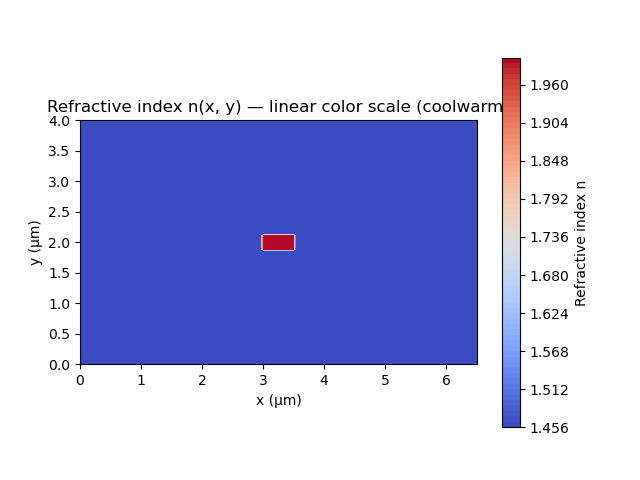
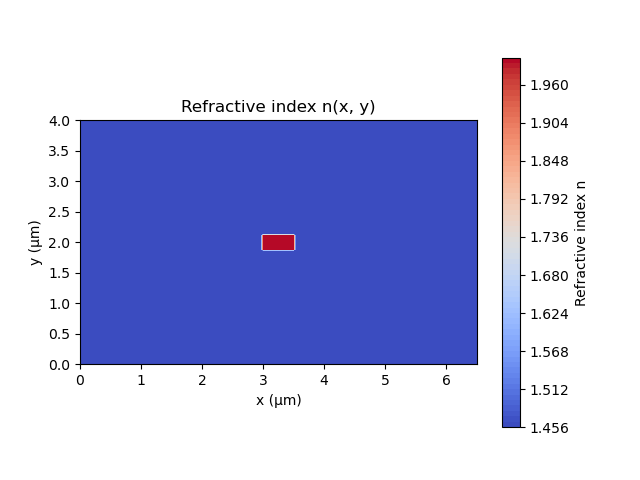
minor updates

Changed region(s): [[0.0625, 0.1875, 0.7812, 0.25]]

diff --git a/examples/Example1 - SiN rect wg modes.py b/examples/Example1 - SiN rect wg modes.py
@@ -37,34 +37,32 @@ core = Slice(SiO(2.0 - 0.25/2) + SiN(0.25) + SiO(2.0 - 0.25/2))
 WG = Waveguide(clad(3.0) + core(0.5) + clad(3.0))
 
 # plot refractive index profile
-fig_n, ax_n = WG.plot(
-    title="Refractive index n(x, y) — linear color scale (coolwarm)",
+fig_n, ax_n = WG.plot( "RIX",
+    title="Refractive index n(x, y)",
 )
+# or: WG.plot_RIX()
+
 out_n = Path(__file__).resolve().parent / "Example1 - RIX profile.png"
 fig_n.savefig(out_n)
 #plt.close(fig_n)
 print(f"Wrote {out_n}")
 
-#WG.plot_RIX()
 
-# 1.55 µm is typical for Si photonics; README leaves wavelength unspecified.
 # Default ``solver='SVFD'`` (EMpy semi-vectorial FD) — fast for this demo.
 # Use ``solver='VFD'`` or ``solver='vectorial'`` for full EMpy VFDModeSolver (slower).
 # Use ``solver='eme'`` for EMEpy's MSEMpy (requires ``pip install emepy``).
 WG.calc(
     wavelength_um=wavelength_um,
-    neigs=5,
-    nx=500,
-    ny=500,
+    neigs=3,
     boundary="p",    # N,S,E,W walls, options: P (PML)/0/S (summetric)/A (Anti-Symm)
     # solver="eme",  # optional: EMEpy MSEMpy (requires ``pip install emepy``)
     # tol=1e-6,
 )
 
-print(WG.neff_dataframe().to_string(index=False))
+print(WG)
 
 fig, ax = WG.plot("all")
 
 out = Path(__file__).resolve().parent / "Example1 - SiN rect wg modes output.png"
-fig.savefig(out, dpi=150)
+fig.savefig(out)
 print(f"Wrote {out}")

diff --git a/ModeSolver_2026/ModeSolver.py b/ModeSolver_2026/ModeSolver.py
@@ -891,7 +891,7 @@ class Waveguide:
         Parameters
         ----------
         which
-            ``None`` / ``""`` / ``"RIX"`` / ``"refractiveindex"`` for the index map;
+            ``None`` / ``""`` / ``"RIX"`` / ``"refractiveindex"`` for the refractive index profile;
             ``"all"`` for the multi-mode intensity figure.
         waveguide, nx, ny, ax, figsize, cmap, log_scale, title, xlabel, ylabel,
         colorbar_label, vmin, vmax
@@ -986,7 +986,7 @@ class Waveguide:
 
 class Mode:
     """
-    Public base class for all backend mode views.
+    Public base class for all backend optical Mode views.
 
     Provides attenuation methods shared by :class:`_ScalarModeView` and
     :class:`_VectorModeView`. Subclasses must expose a ``neff`` property and
@@ -1026,7 +1026,8 @@ class Mode:
         float
             Non-negative attenuation in dB/m.
         """
-        return self.get_alpha() * 10.0 / np.log(10.0)
+        return ( 10*np.log10(np.e) ) * self.get_alpha()
+        # return self.get_alpha() * 10.0 / np.log(10.0)
 
 
 class _ScalarModeView(Mode):
